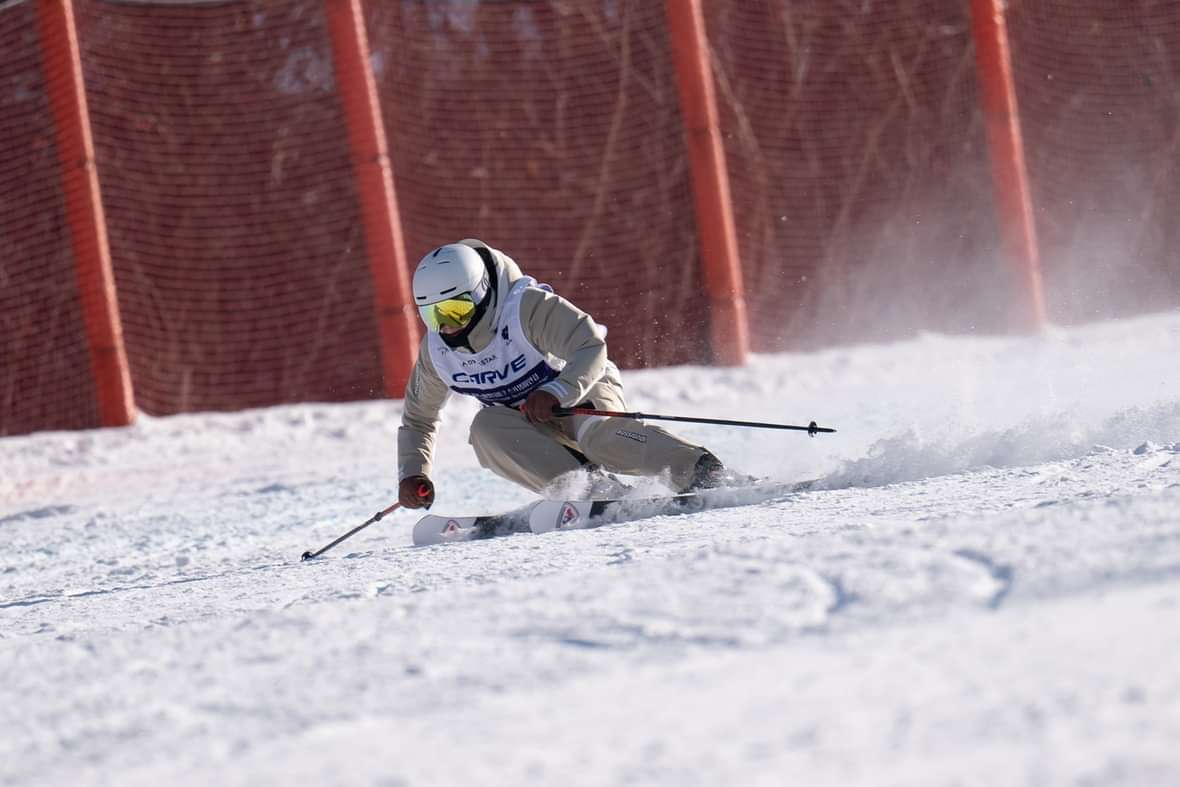
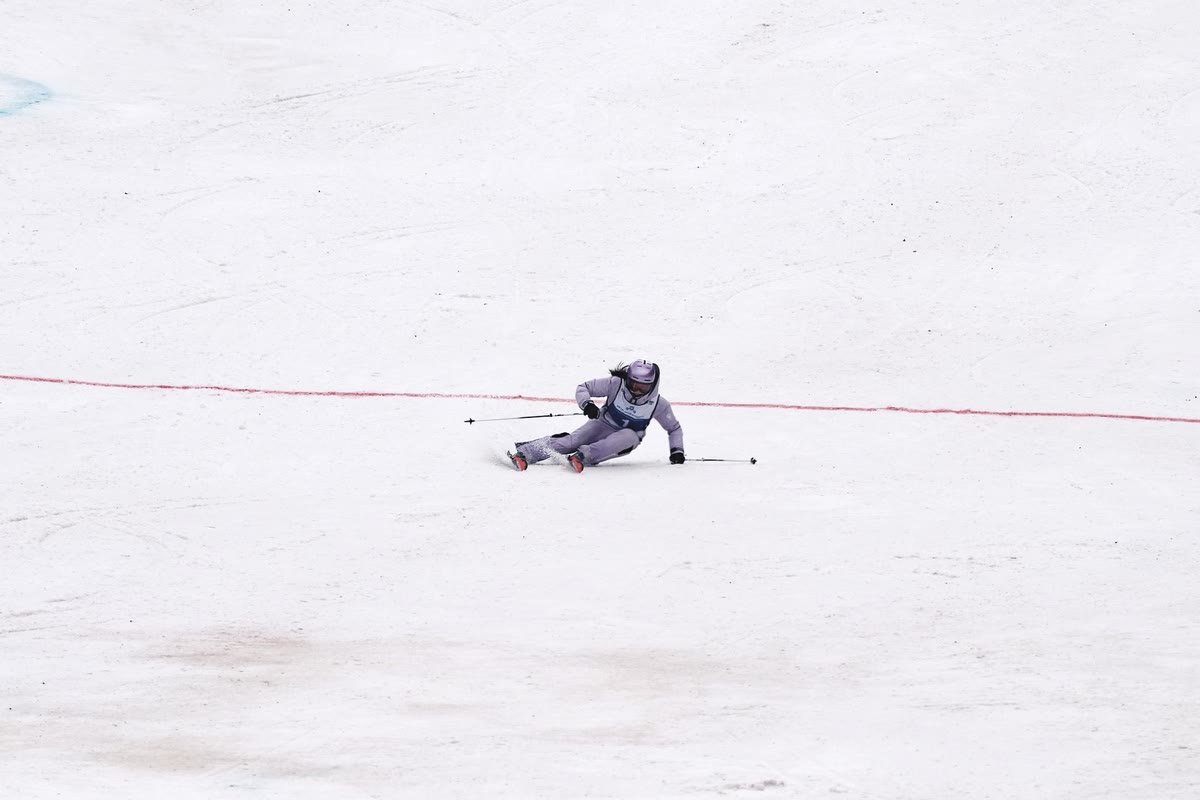
소속선수: 김수인 LV3 승급, 2026 경력 2건 추가, 프로필 사진 교체
- LV2 → LV3 (Lv.2 → Lv.3)
- 2026 제41회 전국스키기술선수권대회 종합 3위, 2026 제12회 국제기술선수권대회 7위 추가
- 사진 3장(원형 썸네일용 크롭 1장 + 원본 리사이즈 2장)으로 교체, 구 사진 정리

diff --git a/team.html b/team.html
@@ -328,12 +328,14 @@
                         <p data-en="• Filming Specialist">• 촬영전문</p>
                     </div>
                 </div>
-                <div class="team-card" data-category="csia" data-photos='["images/kim-sooin-2.jpg","images/kim-sooin-1.jpg","images/kim-sooin-3.jpg","images/kim-sooin-4.jpg"]'>
-                    <div class="team-photo"><img loading="lazy" src="images/kim-sooin-2.jpg" alt="김수인" class="player-photo"></div>
+                <div class="team-card" data-category="csia" data-photos='["images/kim-sooin-1.jpg","images/kim-sooin-2.jpg","images/kim-sooin-3.jpg"]'>
+                    <div class="team-photo"><img loading="lazy" src="images/kim-sooin-1.jpg" alt="김수인" class="player-photo"></div>
                     <h3 data-en="Kim Sooin">김수인</h3>
-                    <p class="team-role" data-en="Lv.2">LV2</p>
+                    <p class="team-role" data-en="Lv.3">LV3</p>
                     <p class="team-exp" data-en="Byun Gyusik Ski School">변규식스키스쿨</p>
                     <div class="team-detail">
+                        <p data-en="• 2026 41st National Ski Technical Championship — Overall 3rd">• 2026 제 41회 전국스키기술선수권대회 종합 3위</p>
+                        <p data-en="• 2026 12th International Ski Technical Championship — 7th">• 2026 제 12회 국제기술선수권대회 7위</p>
                         <p data-en="• 2025 40th National Ski Technical Championship — Overall 3rd">• 2025 제 40회 전국스키기술선수권대회 종합 3위</p>
                         <p data-en="• 2024 10th Carve Cup Championship Open Class — Overall 3rd">• 2024 제 10회 카브컵챔피언쉽 일반부 종합 3위</p>
                         <p data-en="• 2024 9th Carve Cup Championship Open Class — Champion">• 2024 제 9회 카브컵챔피언쉽 일반부 우승</p>
